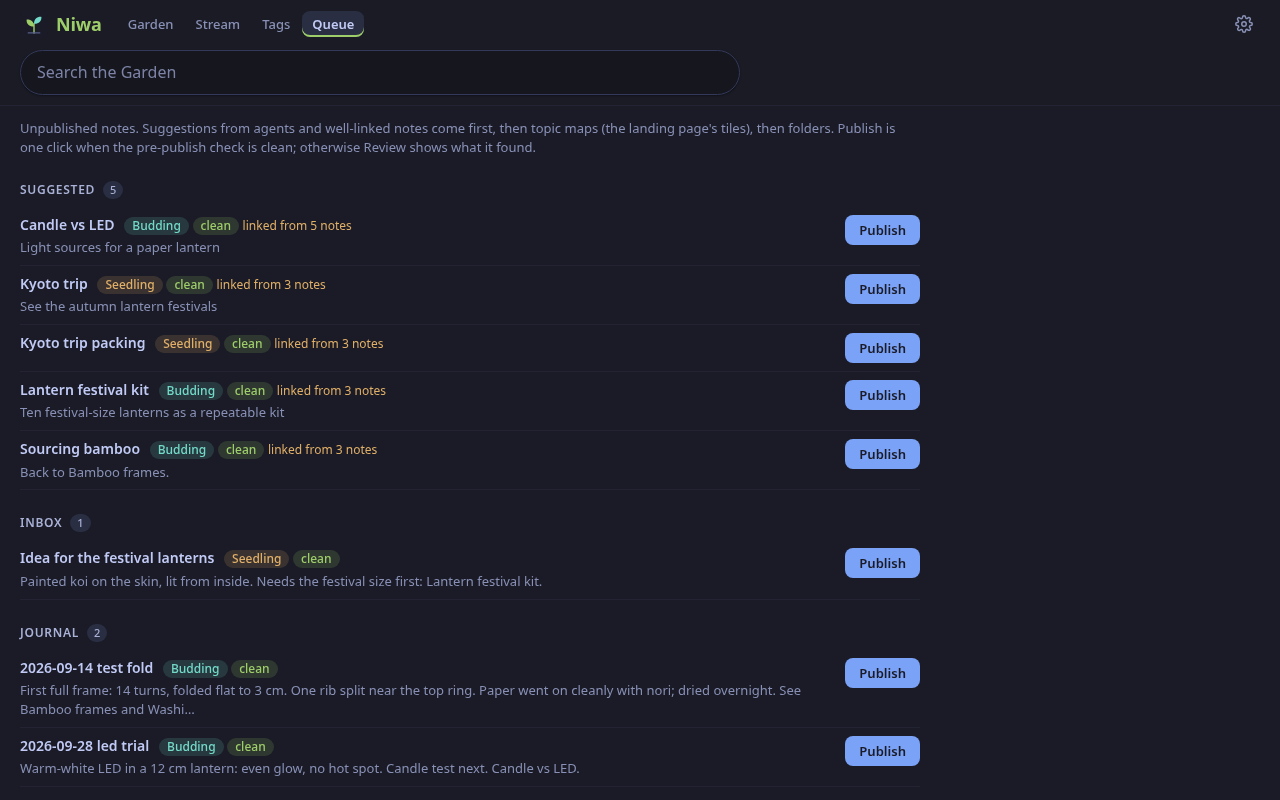
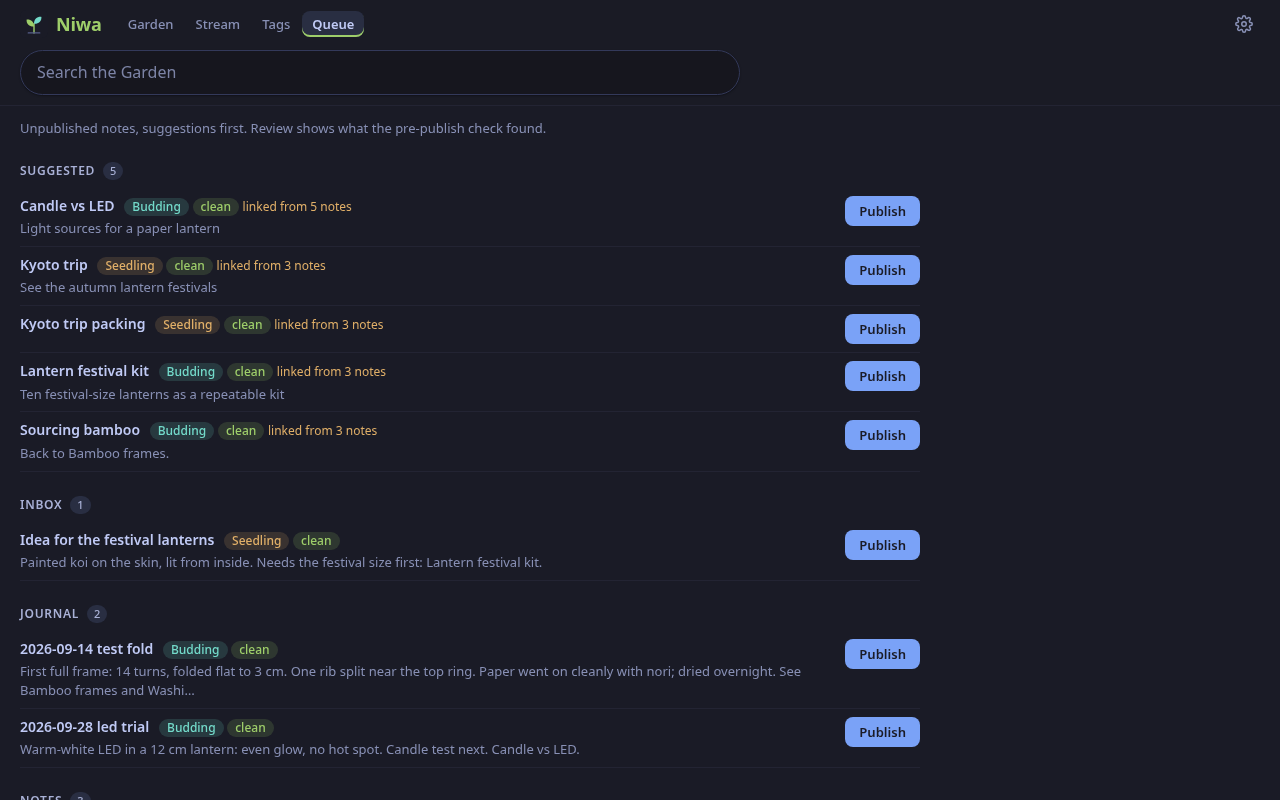
niwa: README: lead with screenshots (the garden, then a note, the queue, the stream and a phone), tighten the text in the owner's voice, drop the old Screenshots section
tools/screenshots: add the stream, never send the sample's links to archive.org, and block /api/prefs so a saved
theme can't override the shot's (the "dark" shots were light). All shots retaken from the sample vault.

diff --git a/README.md b/README.md
@@ -2,22 +2,48 @@
 
 [Machiya](https://github.com/machiya-kobo/machiya) is a set of small self-hosted apps for finding what you've read: your pages (Hister), the web (SearXNG), your notes (an Obsidian vault in git) and your code.
 
-Niwa (庭, garden) grows your digital garden: pick the notes you want to share, and Niwa publishes them on the web, Gemini and Gopher. A note is in the garden when its frontmatter has `publish: true`, and only you can publish, from Niwa's own buttons.
+Niwa (庭, garden) grows your digital garden: pick the notes in your Obsidian vault you want to share, and Niwa publishes them to the Web, Gemini and Gopher.
 
-- **Pages:** the landing page (intro from `Garden.md`, pinned, maps, recent, "in bloom"), notes, tags, the stream (what changed), the queue (suggested and well-linked unpublished notes), random, images, an RSS feed of the published notes (`/feed.xml`), and `/settings` (Appearance, Garden, Rooms, Account when signed in, About; theme and text size follow you to your other devices through `/api/prefs`, the rest stays on the device).
-- **Growth stages** (seedling, budding, evergreen), confidence, pins, backlinks, "nearby" notes, and topic maps.
-- **Pre-publish scan:** before you publish a note, Niwa checks it for addresses, keys and tokens, words you list in `NIWA_SCAN_DENY`, tailnet names, email addresses, links to notes in private folders (`NIWA_PRIVATE_FOLDERS`), links to unpublished notes, dead links and a missing summary. A note with an error stays out of the garden until you choose "Publish anyway" on its page, even when `publish: true` was written somewhere else.
-- **Link rot:** Niwa checks every external link in a published note and saves a Wayback Machine copy of it, so a link keeps pointing at the original with a small "archive.org" link beside it, and a dead link points at its copy. This sends the published notes' links to archive.org; `NIWA_ARCHIVE=none` turns it off. Your own pages also show a Hister copy.
-- **Public garden:** turn on a second, read-only website for anyone (`NIWA_PUBLIC_PORT`), and Gemini (port 1965) and Gopher (port 70) mirrors. They serve published notes only, and their `/stream` lists garden events about published notes and nothing from a board, so nothing about an unpublished note reaches them.
+<p><a href="docs/screenshots/niwa-garden-light.png"><img src="docs/screenshots/niwa-garden-light.png" alt="The garden's landing page: topic maps for Crafts and Travel, recently tended notes with their growth stages, and seedlings" width="100%"></a></p>
+<p>
+  <a href="docs/screenshots/niwa-note-dark.png"><img src="docs/screenshots/niwa-note-dark.png" alt="A note, Chochin folding, in the dark theme, with its tip callout, backlinks and nearby notes" width="28%"></a>
+  <a href="docs/screenshots/niwa-queue-light.png"><img src="docs/screenshots/niwa-queue-light.png" alt="The queue of unpublished notes, each with its scan result and a Publish button" width="28%"></a>
+  <a href="docs/screenshots/niwa-stream-dark.png"><img src="docs/screenshots/niwa-stream-dark.png" alt="The stream in the dark theme: this week's tended notes, day by day" width="28%"></a>
+  <a href="docs/screenshots/niwa-garden-phone-light.png"><img src="docs/screenshots/niwa-garden-phone-light.png" alt="The garden on a phone" width="8%"></a>
+</p>
+
+## Grow your garden
+
+- Publish with one button. Niwa adds `publish: true` to the note's frontmatter and touches nothing else.
+- Growth stages (seedling, budding, evergreen), confidence, pins, backlinks, nearby notes and topic maps.
+- A queue of notes worth sharing: your agents' suggestions and your most-linked notes come first.
+- A stream of what changed, an RSS feed, search and a random note.
+
+## Keep your secrets
+
+- Every publish is scanned first: LAN and tailnet addresses, MAC addresses, keys, tokens, tailnet names, email addresses, and any words you list in `NIWA_SCAN_DENY`.
+- A note with an error stays out of the garden until you press "Publish anyway", even if `publish: true` came from somewhere else.
+- Notes in private folders (`NIWA_PRIVATE_FOLDERS`) never publish.
+
+## Keep your links
+
+- Niwa checks every link in a published note and saves a copy at the Wayback Machine. A live link gets a small "archive.org" link beside it; a dead one points at the copy.
+- That sends your published notes' links to archive.org. `NIWA_ARCHIVE=none` turns it off.
+- With Hister, your own pages show your private copy too.
+
+## Meet your audience where they are
+
+- Niwa publishes to the Web, Gemini and Gopher. Gopher, for visitors still on the Information Superhighway.
+- The public website is optional and off by default (`NIWA_PUBLIC_PORT`): published notes only, no sign-in, no cookies.
 
 ## Quickstart
 
-Niwa alone on your own machine, with the sample vault (a paper-lantern workshop and a trip to Kyoto, nine notes in the
-garden): no account, no Tailscale, no identity file. These are the commands for Debian or Ubuntu; other systems and
-containers are under "More ways to run it".
+Run Niwa on your own machine with the sample vault: a paper-lantern workshop and a trip to Kyoto, nine notes in the
+garden. No account, no Tailscale. These commands are for Debian or Ubuntu; other systems and containers are under
+[More ways to run it](#more-ways-to-run-it).
 
-**1. Install** Python 3 with venv, `git` and `openssl` (it makes the Gemini certificate); `curl` and `nc` are for the
-checks below:
+**1. Install** Python 3 with venv, `git` and `openssl` (for the Gemini certificate), plus `curl` and `nc` for the
+checks:
 
 <!-- quickstart: packages-debian -->
 ```bash
@@ -35,8 +61,8 @@ git clone https://github.com/machiya-kobo/niwa.git && cd niwa
 python3 -m venv .venv && .venv/bin/pip install -q 'markdown>=3.11' pyyaml
 ```
 
-**3. Make the sample vault a git repository.** Niwa's publish buttons write to the vault, so it clones a repository
-it can push to: here a local bare one, `demo-vault.git`, made from `sample-vault/` (its notes are in `personal/`):
+**3. Make the sample vault a git repository.** Niwa pushes what you publish, so it needs a repository it can push to:
+here a local bare one, `demo-vault.git`, made from `sample-vault/` (its notes are in `personal/`):
 
 <!-- quickstart: vault -->
 ```bash
@@ -53,9 +79,9 @@ NIWA_AUTH=open NIWA_BIND=127.0.0.1 NIWA_HOST=localhost NIWA_REPO_SUBDIR=personal
   NIWA_DB="$PWD/demo-data/niwa.sqlite3" .venv/bin/python app/niwa.py
 ```
 
-**5. Open <http://127.0.0.1:8080/>**: nine published notes in three growth stages, topic maps, tags, the stream and the
-queue of unpublished notes. Publishing a note there commits to `demo-vault.git` about two minutes after your last change: Niwa batches your changes into one commit (`git -C demo-vault.git log`). Gemini
-is on port 1965 and Gopher on 7070. Ctrl-C stops it; `rm -rf demo-vault demo-vault.git demo-data` cleans up.
+**5. Open <http://127.0.0.1:8080/>.** Publish a note and Niwa commits it to `demo-vault.git` about two minutes after
+your last change (`git -C demo-vault.git log`). Gemini is on port 1965, Gopher on 7070. Ctrl-C stops it;
+`rm -rf demo-vault demo-vault.git demo-data` cleans up.
 
 `tools/quickstart-test` runs these steps (and the container and BSD ones below) from a fresh clone and checks the output.
 
@@ -63,42 +89,42 @@ is on port 1965 and Gopher on 7070. Ctrl-C stops it; `rm -rf demo-vault demo-vau
 
 Here the **owner** is the person whose vault it is, and a **room** is one Machiya app (Niwa is the garden).
 
-- **Anyone, on the public web:** set `NIWA_PUBLIC_PORT` and `NIWA_GARDEN_URL` (its public address, for example
-  `https://garden.example`) and put a TLS proxy (Caddy, Tailscale Funnel) in front of that port. It serves the published
-  notes, their tags and images, the stream of garden events and the feed, and nothing else: no sign-in, queue,
-  settings or writes, no cookies, and nothing from Konbini, Kura or Hister. Your own address keeps working as below.
-- **You, on localhost:** `NIWA_AUTH=open` with `NIWA_BIND=127.0.0.1`, as in the Quickstart: no login, and anyone who
-  reaches the web port can publish, so keep it on your own machine.
+- **You, on localhost:** `NIWA_AUTH=open` with `NIWA_BIND=127.0.0.1`, as in the Quickstart. No login: anyone who
+  reaches the port can publish, so keep it on your own machine.
 - **People on your tailnet:** bind `127.0.0.1`, put `tailscale serve` in front, and list their Tailscale logins in
-  `NIWA_USERS` (`NIWA_AUTH=tailscale`, the default; `*` = anyone, unset = nobody). `/api/status` is always open.
-- **People, agents, sign-in or Shiori devices:** turn on Machiya's identity file with `python3 -m vaultkit.identity setup`,
-  which prints the settings for each room. It's off unless you set it; see [Machiya's identity guide](https://github.com/machiya-kobo/machiya/blob/main/docs/identity.md) (needs Python 3.11 or newer: the file is TOML).
-- **Hister's users as the one sign-in** (`NIWA_AUTH=hister`, without the identity file; see the Hister sign-in section of
-  [Machiya's identity guide](https://github.com/machiya-kobo/machiya/blob/main/docs/identity.md#hister-sign-in-authhister)):
-  a browser signed in to Hister is let in, a signed-out page goes to the helper's sign-in and comes back (an API call gets
-  `401 {"error": "sign in", "signin": …}`), and a Hister account outside `NIWA_HISTER_USERS` gets 403. When sign-in is
-  unavailable (the helper or Hister is down, or Hister's user handling is off) the owner's Tailscale login in `NIWA_USERS`
-  gets in with a banner; a caller who is signed out never gets that fallback. `POST /signout` (the Rooms menu's Sign Out)
-  ends the Hister session. Off unless you set `NIWA_AUTH=hister`; the settings are under Settings. It trusts the Tailscale login for the fallback, so bind `127.0.0.1` behind `tailscale serve` (or set `NIWA_BIND_BEHIND_PROXY=1` in a sidecar); it refuses to start on a public bind otherwise.
-- Niwa's identity settings: `MACHIYA_IDENTITY_FILE`, `NIWA_SIGNIN`, `NIWA_AUTH_HEADER`, `NIWA_BIND_BEHIND_PROXY`,
-  `NIWA_ACCEPT_APP_CAPS` and `NIWA_PUBLIC_URL` (under Settings).
+  `NIWA_USERS` (`NIWA_AUTH=tailscale`, the default; `*` is anyone, unset is nobody).
+- **People, agents and Shiori devices with their own sign-in:** Machiya's identity file.
+  `python3 -m vaultkit.identity setup` prints the settings. See
+  [Machiya's identity guide](https://github.com/machiya-kobo/machiya/blob/main/docs/identity.md) (Python 3.11 or newer).
+- **Hister's users:** `NIWA_AUTH=hister` signs people in with their Hister account through Machiya's sign-in helper
+  ([the guide](https://github.com/machiya-kobo/machiya/blob/main/docs/identity.md#hister-sign-in-authhister)). Only
+  accounts in `NIWA_HISTER_USERS` get in. While sign-in is down, the owner's Tailscale login in `NIWA_USERS` gets in
+  with a banner; a signed-out browser never does. Bind `127.0.0.1` behind `tailscale serve`, or set
+  `NIWA_BIND_BEHIND_PROXY=1` in a sidecar: it refuses a public bind otherwise.
+- **Anyone, on the public web (optional):** set `NIWA_PUBLIC_PORT` and `NIWA_GARDEN_URL`, and put a TLS proxy (Caddy,
+  a Cloudflare Tunnel, Tailscale Funnel) in front of that port. It serves the published notes, their tags and images,
+  the stream and the feed. No sign-in, queue, settings, writes or cookies, and nothing from Konbini, Kura or Hister.
+
+Each mode's settings are under [Settings](#settings). `/api/status` is always open.
 
 ## How it uses the vault
 
-Niwa keeps its own read-write clone of the vault (ssh deploy key) and writes only the garden's fields (`publish`, `growth`, `confidence`, `garden_pin`) and its events (`.garden/events/*.jsonl`). Niwa batches your changes into one commit, then pulls, rebases (it replays a conflicting edit with a three-way frontmatter merge) and pushes, with vaultkit's GitSync. Its SQLite file holds only link-rot records, which are rebuildable.
+Niwa keeps its own clone of your vault and pushes with an ssh deploy key. It writes only the garden's fields
+(`publish`, `growth`, `confidence`, `garden_pin`) and its events (`.garden/events/*.jsonl`), never a note's body. It
+batches your changes into one commit, rebases onto whatever changed meanwhile (a conflicting edit gets a three-way
+frontmatter merge) and pushes. Its SQLite file holds link records and your "Publish anyway" acknowledgements: back it
+up, or notes with scan errors are held back again.
 
-Optional:
-- **Konbini** adds column badges, "in bloom" and the board half of the stream.
+Optional, and the garden works without them:
+- **Konbini** adds board badges, "in bloom" and the board half of the stream.
 - **Kura** adds links to the full note on your own pages.
 - **Hister** adds private link copies and the stream's reading line.
 
-Without them the garden still works; those extras just don't appear.
-
 ## More ways to run it
 
-Each starts with the packages for your system installed (below), then a clone with the sample vault made a repository (steps 2 and 3 of the Quickstart; the venv is only for the Debian native run). **You need** `git`,
-`curl`, `openssl` and `nc` (netcat), and one of `podman` (4 or newer) or `docker` (24 or newer); the container build pulls
-its base images from the internet. Ports 8080 (web), 1965 (Gemini) and 7070 (Gopher) must be free.
+Each starts with your system's packages (below) and a clone with the sample vault made a repository (Quickstart steps 2
+and 3). **You need** `git`, `curl`, `openssl` and `nc`, plus `podman` 4 or `docker` 24 or newer for a container (the
+build pulls its base images from the internet). Ports 8080 (web), 1965 (Gemini) and 7070 (Gopher) must be free.
 
 ### In a container
 
@@ -184,7 +210,8 @@ On FreeBSD and NetBSD the packages install `python3.12` or `python3.13`, so the 
 
 ### Check all three listeners
 
-Whichever way it runs, this checks the web, Gemini and Gopher listeners (for a native run, in a second terminal in the same folder). The loop waits up to four minutes for the first start (Niwa clones and indexes the vault):
+This checks all three listeners, whichever way Niwa runs (a native run: in a second terminal, same folder). It waits up
+to four minutes while Niwa clones and indexes the vault:
 
 <!-- quickstart: check -->
 ```bash
@@ -196,7 +223,7 @@ printf 'gemini://localhost/\r\n' | openssl s_client -connect 127.0.0.1:1965 -qui
 printf '\r\n' | nc -w 2 127.0.0.1 7070 | head -n 1
 ```
 
-You should see the status, the page titles, the Gemini capsule and the first line of the Gopher menu:
+You should see:
 
 <!-- quickstart-expect: check -->
 ```text
@@ -210,8 +237,8 @@ You should see the status, the page titles, the Gemini capsule and the first lin
 NIWA
 ```
 
-Niwa has no read-only mode: a real vault needs a deploy key with write access (see "Install" below). Stop a container
-with:
+Niwa has no read-only mode: a real vault needs a deploy key with write access (see [Install](#install)). Stop a
+container with:
 
 <!-- quickstart: stop-container-podman -->
 ```bash
@@ -224,15 +251,11 @@ docker rm -f niwa-demo
 ```
 A native run stops with Ctrl-C. Then remove the demo files: `rm -rf demo-vault demo-vault.git demo-data`.
 
-The Gemini certificate is made on first start with `openssl` (see "The Gemini certificate" below). The Gopher menus
-point at port 70 of `NIWA_HOST` (change it with `NIWA_GOPHER_PUBLIC_PORT`), so a real install maps that port to 7070; the demo's links only work if you map it.
-
 ### As part of the Machiya stack
 
-In the stack, Niwa shares the vault with the other apps instead of keeping a second history, and the apps link to
-each other. The reference files are in [machiya-kobo/machiya](https://github.com/machiya-kobo/machiya): its README has the
-stack's own Quickstart, and `compose/compose.yml` (the engines, Kura, Konbini and Niwa) and `compose/mirror.yml` (the
-vault mirror) are the files to start from. What changes for Niwa:
+In the stack, Niwa shares the vault with the other apps and links to them. Start from
+[machiya-kobo/machiya](https://github.com/machiya-kobo/machiya): its README has the stack's Quickstart, and
+`compose/compose.yml` and `compose/mirror.yml` are the files. What changes for Niwa:
 
 | Setting | In the stack |
 |---|---|
@@ -246,23 +269,9 @@ vault mirror) are the files to start from. What changes for Niwa:
 | `NIWA_ENV_FILE` (or `--env-file`) | a file of `KEY=VALUE` settings, for a native install |
 | `MACHIYA_SOURCE_URL` | the address of the source code, to show a "Source code" link as the AGPL asks of a networked service |
 
-## Screenshots
-
-All taken from the sample vault (`tools/screenshots` makes them again).
-
-| Light | Dark |
-|---|---|
-| ![The garden: topic maps, recently tended notes and seedlings](docs/screenshots/niwa-garden-light.png) | ![The garden, dark theme](docs/screenshots/niwa-garden-dark.png) |
-| ![A note with its backlinks, nearby notes and the owner's Tend and Publish controls](docs/screenshots/niwa-note-light.png) | ![A note, dark theme](docs/screenshots/niwa-note-dark.png) |
-| ![The queue of unpublished notes with Publish buttons](docs/screenshots/niwa-queue-light.png) | ![The queue, dark theme](docs/screenshots/niwa-queue-dark.png) |
-
-On a phone (390 px wide):
-
-<img src="docs/screenshots/niwa-garden-phone-light.png" alt="The garden on a phone" width="260"> <img src="docs/screenshots/niwa-note-phone-light.png" alt="A note on a phone" width="260">
-
 ## Install
 
-Niwa needs a Git clone of your vault (Markdown notes with YAML frontmatter) that it can push to: it commits only the garden's fields and its own events.
+Niwa needs a git repository of your vault (Markdown notes with YAML frontmatter) that it can push to.
 
 **Container** (Docker or Podman; the image runs as uid 1000 and keeps everything under `/data`):
 
@@ -282,15 +291,25 @@ docker run -d --name niwa --init --user 1000:1000 \
   niwa
 ```
 
-`NIWA_AUTH=open` means no identity check: anyone who can reach the web port can publish and change the garden, so use it for localhost or a trusted LAN only (the example publishes the web port on 127.0.0.1). Gemini and Gopher serve only published notes (see SECURITY.md), so their ports can be exposed. For anything else see "Who can use it": with `tailscale` (the default) Niwa trusts the `Tailscale-User-Login` header, which `tailscale serve` sets, and any other reverse proxy works if it sets that header to the signed-in user and strips it from incoming requests.
+`NIWA_AUTH=open` has no login, so the example keeps the web port on 127.0.0.1. Gemini and Gopher serve only published
+notes, so their ports can face the world. For everything else, see [Who can use it](#who-can-use-it): the default
+`tailscale` mode trusts the `Tailscale-User-Login` header that `tailscale serve` sets, and any proxy that sets it and
+strips the client's own copy works too.
 
-**Native:** Python 3 with `markdown` (3.11 or later: older ones can run out of memory on one note under Python 3.13, so vaultkit refuses them) and `pyyaml`, plus `git`, `openssh` and `openssl`. From `app/`, `python3 -m vaultkit.verify` checks the vendored vaultkit is unedited, and `python3 niwa.py` starts the server. Settings come from the environment, or from a file given with `--env-file PATH` (or `NIWA_ENV_FILE`; the real environment wins).
+**Native:** Python 3 with `markdown` 3.11 or later (older ones can run out of memory under Python 3.13) and `pyyaml`,
+plus `git`, `openssh` and `openssl`. From `app/`, run `python3 niwa.py`. Settings come from the environment, or a file
+given with `--env-file PATH` or `NIWA_ENV_FILE` (the environment wins).
 
-The web UI is on `NIWA_PORT` (8080); Gemini listens on 1965 and Gopher on 7070. Gopher menus point at port 70 on `NIWA_HOST` (`NIWA_GOPHER_PUBLIC_PORT`), so map the public port 70 to 7070 as the example does (a rootless Podman needs `net.ipv4.ip_unprivileged_port_start=70` or lower for that). `GET /api/status` is open and reports `ready`.
+The web UI is on `NIWA_PORT` (8080), Gemini on 1965 and Gopher on 7070. Gopher menus point at port 70 on `NIWA_HOST`
+(`NIWA_GOPHER_PUBLIC_PORT`), so map port 70 to 7070 as the example does (rootless Podman needs
+`net.ipv4.ip_unprivileged_port_start=70` or lower).
 
 ### The Gemini certificate
 
-On first start Niwa asks `openssl` for a self-signed certificate (EC P-256, valid ten years, subject `CN=<NIWA_HOST>`, names `NIWA_HOST` and its first label) and keeps `gemini.crt` and `gemini.key` next to `NIWA_DB`. Gemini clients trust it on first use. It is made once: changing `NIWA_HOST` later keeps the old certificate until you delete both files and restart, and a new certificate makes clients ask again. Keep the data directory (back it up) so the certificate survives rebuilds.
+On first start Niwa makes a self-signed certificate with `openssl` (EC P-256, ten years, for `NIWA_HOST` and its
+first label) and keeps `gemini.crt` and `gemini.key` next to `NIWA_DB`. Gemini clients trust it on first use. It's
+made once: after changing `NIWA_HOST`, delete both files and restart (clients will ask again). Back up the data
+directory so the certificate survives rebuilds.
 
 ## Settings
 
@@ -299,21 +318,21 @@ On first start Niwa asks `openssl` for a self-signed certificate (EC P-256, vali
 | `NIWA_REPO_URL` | — | vault repo to clone once (ssh for writes; set `GIT_SSH_COMMAND` for the key). Unset: use `NIWA_REPO_DIR` as it is |
 | `NIWA_REPO_DIR` | `/data/repo` | the clone |
 | `NIWA_REPO_SUBDIR` | — | the vault folder in the repo that holds the notes. Unset: the repo root |
-| `NIWA_REPO_REFERENCE` | — | in the Machiya stack: the stack's vault copy (vault-mirror), mounted read-only at the same absolute path. Niwa borrows its objects (vaultkit `borrow`: alternates, then `repack -a -d -l`, idempotent at start-up), so its clone keeps only its own commits. Unset: standalone, a full clone of its own |
+| `NIWA_REPO_REFERENCE` | — | in the Machiya stack: the stack's vault mirror, mounted read-only at the same absolute path. Niwa borrows its objects, so its own clone keeps only its own commits. Unset: a full clone of its own |
 | `NIWA_REPO_SPARSE` | — | with a reference: the paths to check out (cone), e.g. `notes,.garden,.board` (the notes, Niwa's events, older events from a shared board). Unset: everything |
 | `NIWA_POLL` | `60` | seconds between pulls |
 | `TZ` | `UTC` | the time zone for the stream's days and "this week" counts, e.g. `Europe/Berlin` |
 | `NIWA_IGNORE_AUTHORS` | — | comma-separated git author names of bots that commit to the vault: their commits don't count as "tended" in the stream (Niwa's own `NIWA_GIT_NAME` is always ignored) |
 | `NIWA_INTRO` | `Notes from the vault, shared as they grow.` | the landing page's intro while no `Garden.md` is published, on the web, Gemini and Gopher: plain text (HTML-escaped), one line. Publish `Garden.md` to write your own (Gemini and Gopher show it too) |
-| `NIWA_AUTH` | `tailscale` | `tailscale`: the owner's pages and writes need a `Tailscale-User-Login` in `NIWA_USERS`. `open`: no identity check (a startup warning), for localhost or a trusted LAN only; it serves only requests whose `Host` is an IP address, `localhost`, `NIWA_HOST`, `NIWA_PUBLIC_URL`'s host or a name in `NIWA_ALLOWED_HOSTS` (a guard against DNS rebinding), so an HTTP/1.0 client that sends no `Host` header gets 403. `header`: with `MACHIYA_IDENTITY_FILE` only, a trusted proxy's login header (`NIWA_AUTH_HEADER`). `hister`: Hister's sign-in (the row below). Either way, form posts must be same-origin and agents may only suggest. Any other value refuses to start |
+| `NIWA_AUTH` | `tailscale` | `tailscale`: your pages and writes need a `Tailscale-User-Login` in `NIWA_USERS`. `open`: no login (a startup warning), for localhost or a trusted LAN; it answers only a `Host` that is an IP address, `localhost`, `NIWA_HOST`, `NIWA_PUBLIC_URL`'s host or in `NIWA_ALLOWED_HOSTS` (against DNS rebinding). `header`: with `MACHIYA_IDENTITY_FILE` only, a trusted proxy's login header (`NIWA_AUTH_HEADER`). `hister`: Hister's sign-in (the next row but one). In every mode form posts must be same-origin and agents may only suggest. Anything else refuses to start |
 | `NIWA_USERS` | — | allowed `Tailscale-User-Login`s; `*` = anyone; unset = nobody (`/api/status` is open) |
-| `NIWA_AUTH=hister`, `NIWA_AUTH_URL`, `NIWA_AUTH_SIGNIN_URL`, `NIWA_HISTER_USERS`, `NIWA_AUTH_FALLBACK`, `NIWA_AUTH_ACCEPT_ORIGINS`, `MACHIYA_COOKIE_DOMAIN`, `MACHIYA_SSO_COOKIE` | — | Hister sign-in (vaultkit's `histerauth`), with `NIWA_PUBLIC_URL` (required) as the way back. `NIWA_AUTH_URL`: the sign-in helper's internal address (`http://hister-login:8081`); unset, Niwa runs on the Tailscale identity alone, with a warning. `NIWA_AUTH_SIGNIN_URL` (required): the helper's public sign-in page. `NIWA_HISTER_USERS` (required, never `*`): the Hister usernames let in. `NIWA_AUTH_FALLBACK`: `tailscale` (the default; `NIWA_USERS` are the logins admitted then, never `*`) or `none` (needs `NIWA_AUTH_URL`; 503 when sign-in is unavailable). Niwa keeps a sign-in cookie of its own, set for its host alone (`__Host-machiya_sso_niwa`; without `Domain`, so no other host on the tailnet can read or plant it): a browser without it makes one silent trip through the helper and comes back with a one-time code (`/machiya/callback`) that Niwa trades for a room session good in Niwa only. Callers that aren't browsers send a room token (`Authorization: Bearer mht_…`) that names Niwa. `NIWA_AUTH_ACCEPT_ORIGINS`: other origins whose room sessions Niwa also accepts (comma-separated; Shiori's hosted pages). `MACHIYA_SSO_COOKIE`: the cookie name's base (default `machiya_sso`; letters, digits, `_` and `-`), the same as the hister-login helper's, so a second stack can use its own. `MACHIYA_COOKIE_DOMAIN`: the domain of the older shared `machiya_sso` cookie, which Niwa still reads and clears until the helper stops setting it. Refused at start: a missing setting, a `*`, or an identity file at the same time |
+| `NIWA_AUTH=hister`, `NIWA_AUTH_URL`, `NIWA_AUTH_SIGNIN_URL`, `NIWA_HISTER_USERS`, `NIWA_AUTH_FALLBACK`, `NIWA_AUTH_ACCEPT_ORIGINS`, `MACHIYA_COOKIE_DOMAIN`, `MACHIYA_SSO_COOKIE` | — | Hister sign-in, with `NIWA_PUBLIC_URL` (required) as the way back. `NIWA_AUTH_URL`: the sign-in helper's internal address (`http://hister-login:8081`); unset, Niwa runs on the Tailscale login alone, with a warning. `NIWA_AUTH_SIGNIN_URL` (required): the helper's public sign-in page. `NIWA_HISTER_USERS` (required, never `*`): the Hister usernames let in. `NIWA_AUTH_FALLBACK`: `tailscale` (the default: the `NIWA_USERS` logins get in while sign-in is down, never `*`) or `none` (503 then; needs `NIWA_AUTH_URL`). Niwa keeps its own host-only cookie (`__Host-machiya_sso_niwa`), set after one silent trip through the helper (`/machiya/callback`). Non-browsers send a room token (`Authorization: Bearer mht_…`) naming Niwa. `NIWA_AUTH_ACCEPT_ORIGINS`: other origins whose sessions Niwa accepts (Shiori's hosted pages). `MACHIYA_SSO_COOKIE`: the cookie name's base (default `machiya_sso`), the same as the helper's. `MACHIYA_COOKIE_DOMAIN`: the domain of the older shared `machiya_sso` cookie, still read and cleared until the helper stops setting it. Refused at start: a missing setting, a `*`, or an identity file as well |
 | `NIWA_BIND` | `0.0.0.0` | the IPv4 address all three listeners bind (web, Gemini, Gopher). Behind `tailscale serve` on a native install, bind `127.0.0.1`: on a public bind anyone who reaches the port could send the `Tailscale-User-Login` header |
-| `MACHIYA_IDENTITY_FILE` | — | Machiya's identity file (vaultkit's `identity`; [Machiya's `docs/identity.md`](https://github.com/machiya-kobo/machiya/blob/main/docs/identity.md)): people, agents and services with grants. Set, it replaces `NIWA_USERS`: pages and read APIs need the `niwa` `read` grant, `POST /api/suggest` needs `suggest`, and publishing, dismissing and the garden fields need `publish` (the owner has every grant). No or a bad proof (token, login) answers 401, a principal without the grant 403. `/api/status`'s full view is the owner's. Mount the file's **directory** read-only (the CLI replaces the file, and a file mount keeps the old one); with a `session_key_file` beside it. Unset: `NIWA_USERS`, as before |
-| `NIWA_SIGNIN` | — | `1`, `on`, `true` or `yes`: with an identity file, the built-in sign-in (vaultkit's `signin`): `/signin` takes a person's name and password (set with `python3 -m vaultkit.identity passwd NAME`) and sets the `machiya_session` cookie (`MACHIYA_COOKIE_DOMAIN` shares it across rooms), alongside any `NIWA_AUTH` mode. A browser without a session then gets a 401 page linking to `/signin`, and Settings shows a Sign Out button. Unset: `/signin` answers 404 (pairing and preferences don't need it) |
-| `NIWA_PUBLIC_URL` | — | Niwa's web address, an origin with no path (`https://niwa.example`, `http://192.168.1.5:8080`); anything else refuses to start. With an identity file it is the origin the sign-in, sign-out and a cookie's preference writes accept as same-origin. `http://…` means the web is served over plain http: the session cookie isn't `Secure` (a browser would drop it), and only this origin counts, since over http `Host` and `Origin` prove nothing (DNS rebinding). Unset: https, and the request's own `Host`, over https only; over plain http the sign-in then always refuses. Its host is also served with `NIWA_AUTH=open` |
+| `MACHIYA_IDENTITY_FILE` | — | Machiya's identity file ([`docs/identity.md`](https://github.com/machiya-kobo/machiya/blob/main/docs/identity.md)): people, agents and services with grants, replacing `NIWA_USERS`. Pages and read APIs need the `niwa` `read` grant, `POST /api/suggest` needs `suggest`, and publishing and the garden fields need `publish` (the owner has all). No or a bad proof is 401, no grant 403. Mount the file's **directory** read-only (the CLI replaces the file), with its `session_key_file` beside it |
+| `NIWA_SIGNIN` | — | `1`, `on`, `true` or `yes`: with an identity file, the built-in sign-in. `/signin` takes a name and password (set with `python3 -m vaultkit.identity passwd NAME`) and sets the `machiya_session` cookie (shared across rooms with `MACHIYA_COOKIE_DOMAIN`). A browser without a session gets a 401 page linking to it, and Settings shows Sign Out. Unset: `/signin` is 404 |
+| `NIWA_PUBLIC_URL` | — | your own Niwa's address, an origin with no path (`https://niwa.example`, `http://192.168.1.5:8080`); anything else refuses to start. With an identity file, the sign-in, sign-out and preference writes accept it as same-origin. `http://` means plain http: the session cookie isn't `Secure`, and only this origin counts. Unset: https and the request's own `Host`; over plain http the sign-in then refuses. Its host is also served with `NIWA_AUTH=open` |
 | `NIWA_AUTH_HEADER` | — | with an identity file and `NIWA_AUTH=header`: the trusted proxy's login header (`Remote-User`, …), matched against each principal's `proxy` logins. `header` without an identity file refuses to start |
-| `NIWA_BIND_BEHIND_PROXY` | — | `1`: `NIWA_AUTH=tailscale` or `header` with an identity file, or `NIWA_AUTH=hister` (with the `tailscale` fallback), may bind a non-loopback address because a proxy (the Tailscale sidecar) is the only way into the web port. Without it those modes refuse to start on anything but 127.0.0.1 (plain `NIWA_AUTH=tailscale` without an identity file still starts; bind it to 127.0.0.1 yourself) |
+| `NIWA_BIND_BEHIND_PROXY` | — | `1`: a proxy (the Tailscale sidecar) is the only way into the web port, so `NIWA_AUTH=tailscale` or `header` with an identity file, or `NIWA_AUTH=hister`, may bind a non-loopback address. Without it those refuse to start on anything but 127.0.0.1 (plain `tailscale` without an identity file still starts: bind 127.0.0.1 yourself) |
 | `NIWA_TRUSTED_PROXIES` | — | addresses or CIDRs (comma-separated, e.g. `10.210.4.2/32`) of the proxies in front of the web port. Set, an identity header (`Tailscale-User-Login` and Tailscale's others, `Remote-User`, `NIWA_AUTH_HEADER`) counts only on a connection from one of them; from anyone else it is ignored, so the request is anonymous. Unset: headers count from any peer, as before. Doesn't touch the public garden, which reads no identity header |
 | `NIWA_ACCEPT_APP_CAPS` | — | `1`: with an identity file, a Tailscale tagged node (an agent's machine) is known by the app capability `tailscale serve --accept-app-caps=github.com/machiya-kobo/cap/identity` forwards. Only where Serve (Tailscale v1.92 or later) forwards and strips that header; an older one passes a client's own copy through |
 | `NIWA_ALLOWED_HOSTS` | — | with `NIWA_AUTH=open`: more names (comma-separated) the web UI answers to besides IP addresses, `localhost`, `NIWA_HOST` and `NIWA_PUBLIC_URL`'s host, e.g. a LAN name. Names match without case, port or a trailing dot (`Box.lan:8080` is `box.lan`). A request with no `Host` header (an HTTP/1.0 client may send none) gets 403 |
@@ -327,13 +346,13 @@ On first start Niwa asks `openssl` for a self-signed certificate (EC P-256, vali
 | `NIWA_LINKS_USER_AGENT` | `niwa-links/1` | the link checker's User-Agent (add a contact URL for the sites it checks) |
 | `NIWA_SKIP_HOSTS` | — | host names (comma-separated; each matches itself and its subdomains) the link checker never visits, on top of `localhost`, `*.ts.net` and every private, loopback or link-local IP address |
 | `NIWA_KONBINI_URL`, `NIWA_KURA_URL` | — | sister services (see above): the addresses browsers follow |
-| `NIWA_KONBINI_TOKEN_FILE` | — | a file holding Niwa's token for Konbini, sent as `Authorization: Bearer` on every call to Konbini (with `X-Agent: niwa`): a room token for Konbini (`mht_…`, made on the sign-in helper's sessions page or with `hister_login.py token mint --rooms konbini`) when Konbini is in `AUTH=hister` mode, or a Machiya identity token (`python3 -m vaultkit.identity token mint niwa`) with the identity file. Konbini knows Niwa by its own principal. Never logged. Set to a file with no token, Niwa refuses to start. Unset: no token, as before |
+| `NIWA_KONBINI_TOKEN_FILE` | — | a file with Niwa's token for Konbini, sent as `Authorization: Bearer` (with `X-Agent: niwa`): a room token (`mht_…`, from the sign-in helper or `hister_login.py token mint --rooms konbini`) when Konbini uses Hister sign-in, or an identity token (`python3 -m vaultkit.identity token mint niwa`). Never logged. A file with no token refuses to start |
 | `NIWA_KONBINI_API_URL` | `NIWA_KONBINI_URL` | the address Niwa's own server calls Konbini on, when it differs from the one browsers use (in a container stack: `http://konbini:8081` inside, `http://localhost:8081` outside) |
 | `NIWA_GOPHER_PUBLIC_PORT` | `70` | the port the Gopher menus advertise; the listener itself is on 7070, so map the public port to it |
 | `MACHIYA_ROOMS` | — | the Rooms switcher, `shiori=https://…,konbini=…,niwa=…,kura=…,hister=…,searxng=…,machiya=…` (the stack sets it; `machiya=` is the stack's landing page: a "Machiya · home" row and the footer's "Part of Machiya" link). Unset: the switcher shows Konbini and Kura from the two settings above, or nothing |
 | `MACHIYA_SOURCE_URL` | — | where the source code is published: a "Source code" link in the footer and About, as the AGPL asks of a networked service |
 | `NIWA_HISTER_URL`, `NIWA_HISTER_PUBLIC` | — | Hister (optional): the owner's private link copies and the stream's reading line; `NIWA_HISTER_PUBLIC` is the address the owner's browser uses for links to it |
-| `NIWA_HISTER_TOKEN_FILE` | — | the file holding the owner's Hister token (first line). Set, it goes to Hister as `X-Access-Token` on every call and to the `hister` command-line tool as `HISTER__APP__ACCESS_TOKEN` in its own environment (never on its command line); it is read again when the file changes, never logged and never shown in `/api/status`. A set file with no token stops startup. Unset: no token is sent, as before (Hister ignores it until it requires one) |
+| `NIWA_HISTER_TOKEN_FILE` | — | the file with your Hister token (first line), sent as `X-Access-Token` and to the `hister` tool in its environment (never on its command line). Re-read when the file changes; never logged or shown in `/api/status`. A file with no token stops startup |
 | `NIWA_COLD_MAP` | — | optional: the URL of a JSON map of static page snapshots, `{"urls": {norm(url): {"snapshot", "date"}}}` (keys from `app/urlnorm.py`), used as the owner's private copy of a link |
 | `NIWA_ARCHIVE` | `wayback` | `wayback` asks the Wayback Machine for a snapshot of each link in the published notes (it sends those URLs to archive.org): a live link gets an "archive.org" link beside it, and a dead link points at its snapshot, on the web, Gemini and Gopher. `none` never contacts archive.org; links are still checked for life and snapshots already recorded still show. Any other value counts as `none`, with a startup warning |
 | `NIWA_HISTER_SAVE` | — | `1`, `on` or `true`: link rot may index a live link into Hister when Hister doesn't have it. Unset: Hister is only looked up (the owner's copy is shown), never written to |
@@ -361,12 +380,9 @@ With an identity file (`MACHIYA_IDENTITY_FILE`), vaultkit's `signin` adds the fi
 - `POST /api/pair {"code": "ABCD-EFGH", "device": "iPhone"}`: a Shiori device pairs with a one-time code (`python3 -m vaultkit.identity pair NAME --label iPhone`) and gets `{"token": "mcd_…", "principal"}`, its own token to send as `Authorization: Bearer`. No cookie, so no same-origin rule; 401 for an unknown or expired code, 429 when throttled; at most 1 KB.
 - `GET /api/prefs`, `PUT /api/prefs {"prefs": {"key": "value" or null}}`: the caller's own preferences (keys `[a-z0-9_.-]`, string values up to 4 KB, 100 keys; `null` removes one), stored in `prefs.sqlite3` next to `NIWA_DB`. Needs the `niwa` `read` grant. A PUT made with a session cookie, a Tailscale or proxy login must be same-origin; one with a token needn't. Without an identity file it is there too: `NIWA_USERS` (or open mode) decides who gets in, and the preferences are the Tailscale login's (stored under a hash of it) or, with `NIWA_AUTH=open`, the one local owner's. Every page then carries `<meta name="machiya-prefs">`, so theme and text size follow the person to another device.
 
-The first three come before the gate (they are how you get past it), after the `NIWA_AUTH=open` `Host` check; `/api/prefs` comes after it. Gemini and Gopher have none of them.
-
-Publishing, stages and dismissals are form posts from the owner's pages (same origin only; agents get 403). With an
-identity file the power comes from the `niwa` `publish` grant, not from the request's `Origin` or a missing
-`X-Agent`: an agent's token gets 403 there whatever it sends. `X-Agent` names the session in the garden's events
-(`agent`), and `actor` is the principal. Agents send their token as `Authorization: Bearer mch_…`.
+Publishing, stages and dismissals are same-origin form posts from the owner's pages; agents get 403 and may only
+suggest. With an identity file that takes the `niwa` `publish` grant. Agents send their token as
+`Authorization: Bearer mch_…`, and `X-Agent` names them in the garden's events.
 
 ## Layout
 
